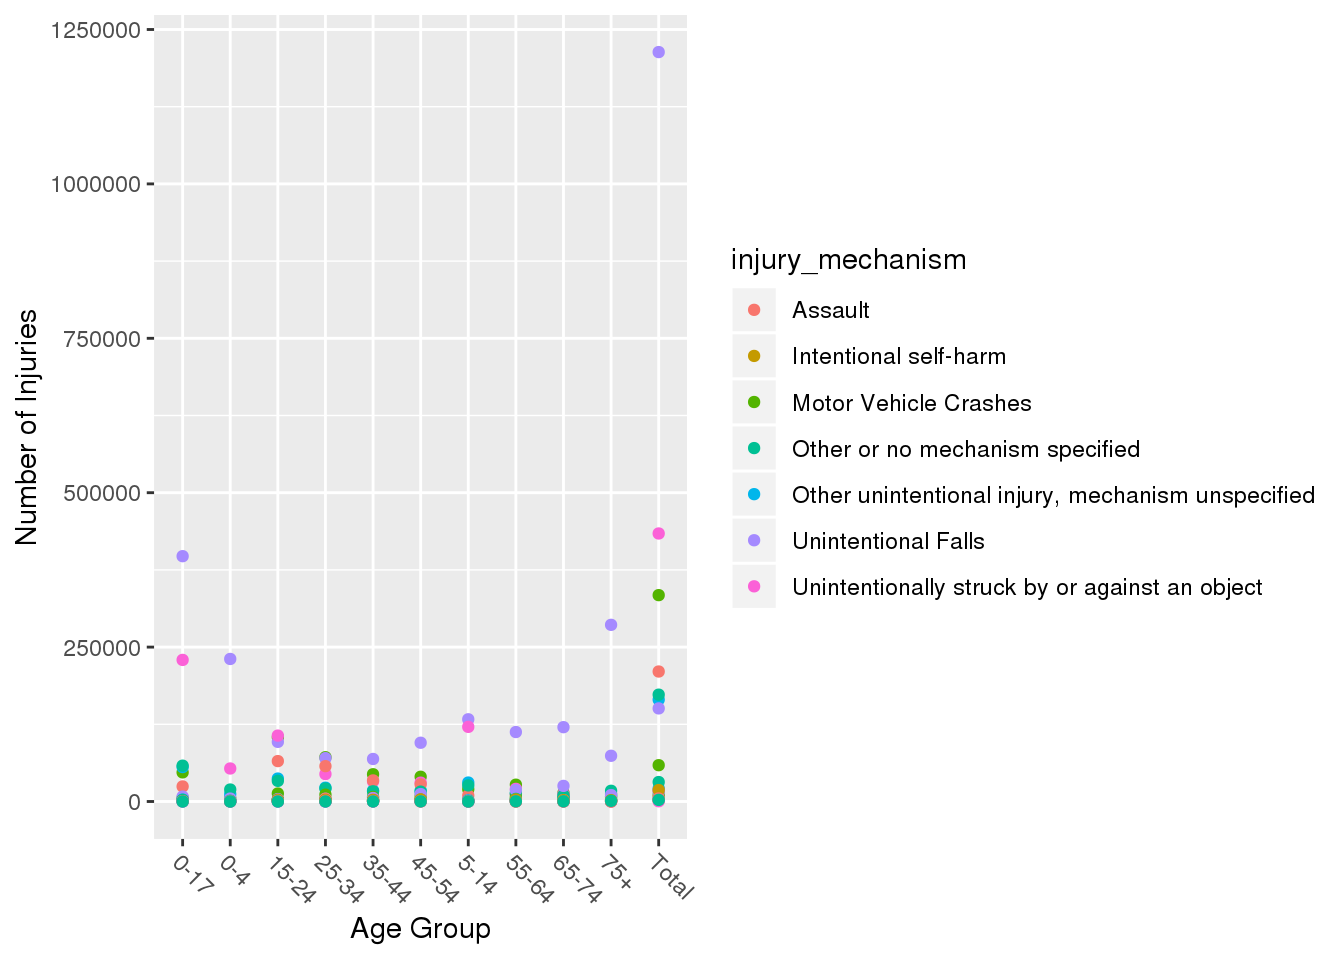
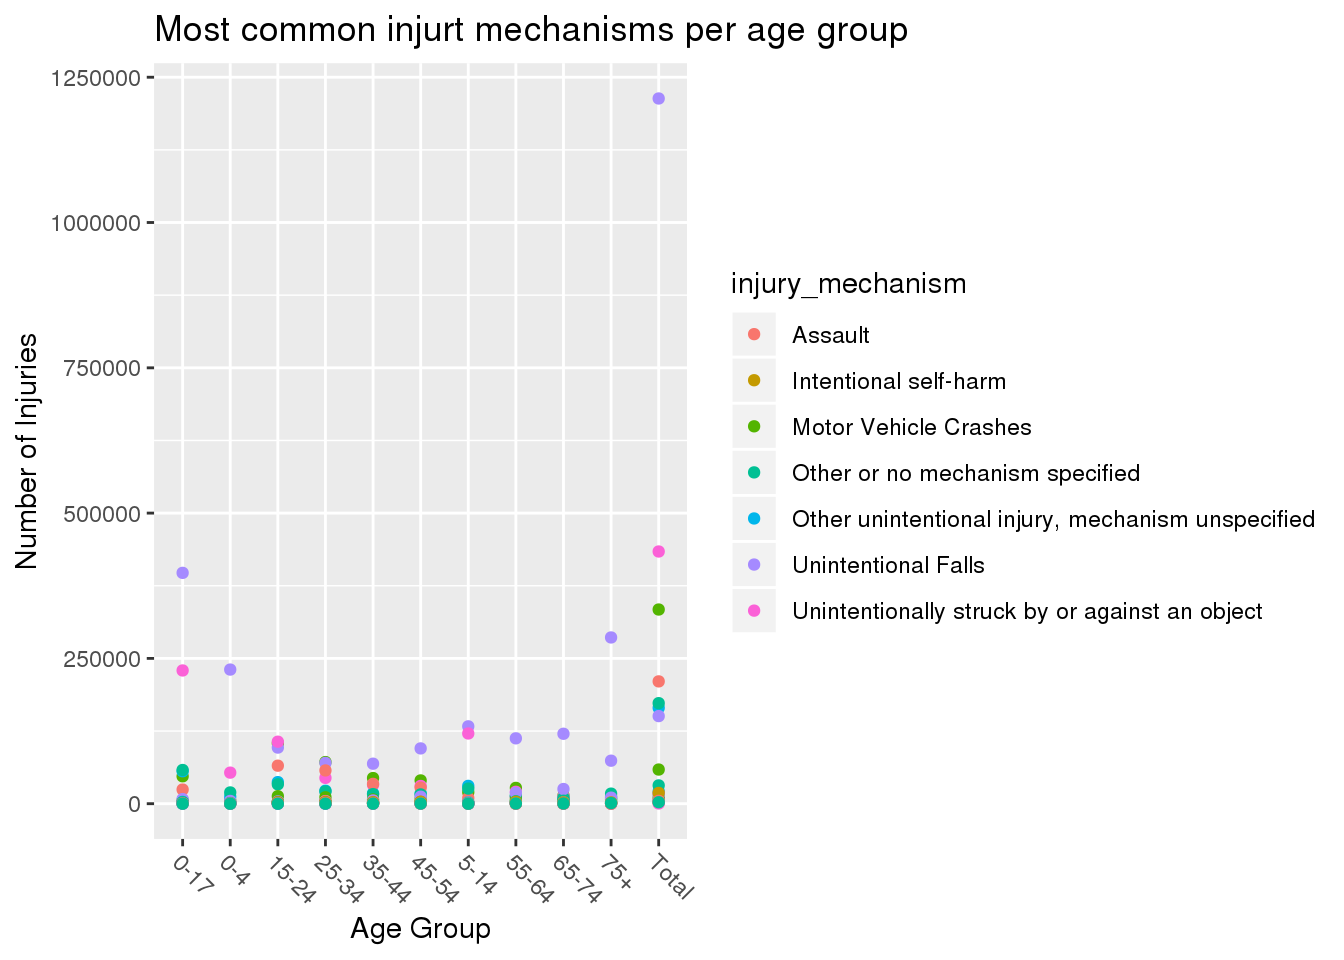
adding ggtitles

diff --git a/content/post/2020-12-09-tbi/index.html b/content/post/2020-12-09-tbi/index.html
@@ -42,16 +42,11 @@ ggplot(data =dat)+
   geom_point(mapping = aes(x = age_group, y = number_est, color = injury_mechanism ))+
   xlab(&quot;Age Group&quot;) +
   ylab(&quot;Number of Injuries&quot;) +
-  theme(axis.text.x = element_text(angle =- 45, hjust = 0))</code></pre>
+  theme(axis.text.x = element_text(angle =- 45, hjust = 0))+
+  ggtitle(&quot;Most common injurt mechanisms per age group&quot;)</code></pre>
 <pre><code>## Warning: Removed 11 rows containing missing values (geom_point).</code></pre>
-<p><img src="index_files/figure-html/unnamed-chunk-4-1.png" width="672" /></p>
-<pre class="r"><code>  ggtitle(&quot;Most common injurt mechanisms per age group&quot;)</code></pre>
-<pre><code>## $title
-## [1] &quot;Most common injurt mechanisms per age group&quot;
-## 
-## attr(,&quot;class&quot;)
-## [1] &quot;labels&quot;</code></pre>
-<p>Unintentional falls is one of the most substantial injury mechanisms in the data, with it being the greatest reason for almost all the age groups, and being the greatest out of the total group by a large margin. Next most prominent injury mechanism is being unintentionally struck by or against an object, being the second largest for the most of the age groups as well. From this, it appears that there is no correlation between the different types of injury mechanism and the different age groups.</p>
+<p><img src="index_files/figure-html/unnamed-chunk-4-1.png" width="672" />
+Unintentional falls is one of the most substantial injury mechanisms in the data, with it being the greatest reason for almost all the age groups, and being the greatest out of the total group by a large margin. Next most prominent injury mechanism is being unintentionally struck by or against an object, being the second largest for the most of the age groups as well. From this, it appears that there is no correlation between the different types of injury mechanism and the different age groups.</p>
 <pre class="r"><code>glimpse(dat2)</code></pre>
 <pre><code>## Observations: 450
 ## Variables: 5
@@ -71,16 +66,11 @@ To determine, I will generate a graph to visualize the number of diagnosed and y
    ylab(&quot;number of diagnoses&quot;) +
     xlab(&quot;year&quot;) +
     facet_wrap(~ severity, scale = &quot;free&quot;)+
-    theme(axis.text.x = element_text(angle =- 45, hjust = 0))</code></pre>
+    theme(axis.text.x = element_text(angle =- 45, hjust = 0))+
+    ggtitle(&quot;Number of diagnoses compared to its severity per year  &quot;)</code></pre>
 <pre><code>## Warning: Removed 12 rows containing non-finite values (stat_boxplot).</code></pre>
-<p><img src="index_files/figure-html/unnamed-chunk-6-1.png" width="672" /></p>
-<pre class="r"><code>    ggtitle(&quot;Number of diagnoses compared to its severity per year  &quot;)</code></pre>
-<pre><code>## $title
-## [1] &quot;Number of diagnoses compared to its severity per year  &quot;
-## 
-## attr(,&quot;class&quot;)
-## [1] &quot;labels&quot;</code></pre>
-<p>Of the brain injuries, there is not much to very little change in the data as years progress for the different levels of severity. The graph above makes it apparent that the Army Branch has the widest range of all types of severity throughout all the years. However, the mild and moderate concussions are much more substantial than the not classifiable, penetrating, severe types of concussions. All the other branches remain relatively constant maintaining few TBIs and maintaining approximately the same amount each year.</p>
+<p><img src="index_files/figure-html/unnamed-chunk-6-1.png" width="672" />
+Of the brain injuries, there is not much to very little change in the data as years progress for the different levels of severity. The graph above makes it apparent that the Army Branch has the widest range of all types of severity throughout all the years. However, the mild and moderate concussions are much more substantial than the not classifiable, penetrating, severe types of concussions. All the other branches remain relatively constant maintaining few TBIs and maintaining approximately the same amount each year.</p>
 <pre class="r"><code>ggplot(data = dat2)+
   geom_point(mapping = aes(y = diagnosed, x = year , color = service))</code></pre>
 <pre><code>## Warning: Removed 12 rows containing missing values (geom_point).</code></pre>
@@ -100,14 +90,16 @@ To determine, I will create a graphic between the type or severity of the TBI to
 <pre class="r"><code>graph1&lt;-filter(dat1, type %in% c(&quot;Deaths&quot; ))%&gt;%
   ggplot(aes(y = number_est,x= type, color = injury_mechanism))+
   geom_point(mapping = aes(y= number_est, x= type, color = injury_mechanism))+
-  theme(axis.text.x = element_text(angle =- 45, hjust = 0))
+  theme(axis.text.x = element_text(angle =- 45, hjust = 0))+
+  ggtitle(&quot;Injury mechanism leading to Deaths&quot;)
 graph1</code></pre>
 <pre><code>## Warning: Removed 9 rows containing missing values (geom_point).</code></pre>
 <p><img src="index_files/figure-html/unnamed-chunk-9-1.png" width="672" /></p>
 <pre class="r"><code>graph2&lt;-filter(dat, type %in% c(&quot;Deaths&quot; ))%&gt;%
   ggplot(aes(y = number_est,x= type, color = injury_mechanism))+
   geom_point(mapping = aes(y= number_est, x= type, color = injury_mechanism))+
-  theme(axis.text.x = element_text(angle =- 45, hjust = 0))
+  theme(axis.text.x = element_text(angle =- 45, hjust = 0))+
+  ggtitle(&quot;Injury mechanisms leading to death&quot;)
 graph2</code></pre>
 <pre><code>## Warning: Removed 3 rows containing missing values (geom_point).</code></pre>
 <p><img src="index_files/figure-html/unnamed-chunk-10-1.png" width="672" /></p>
